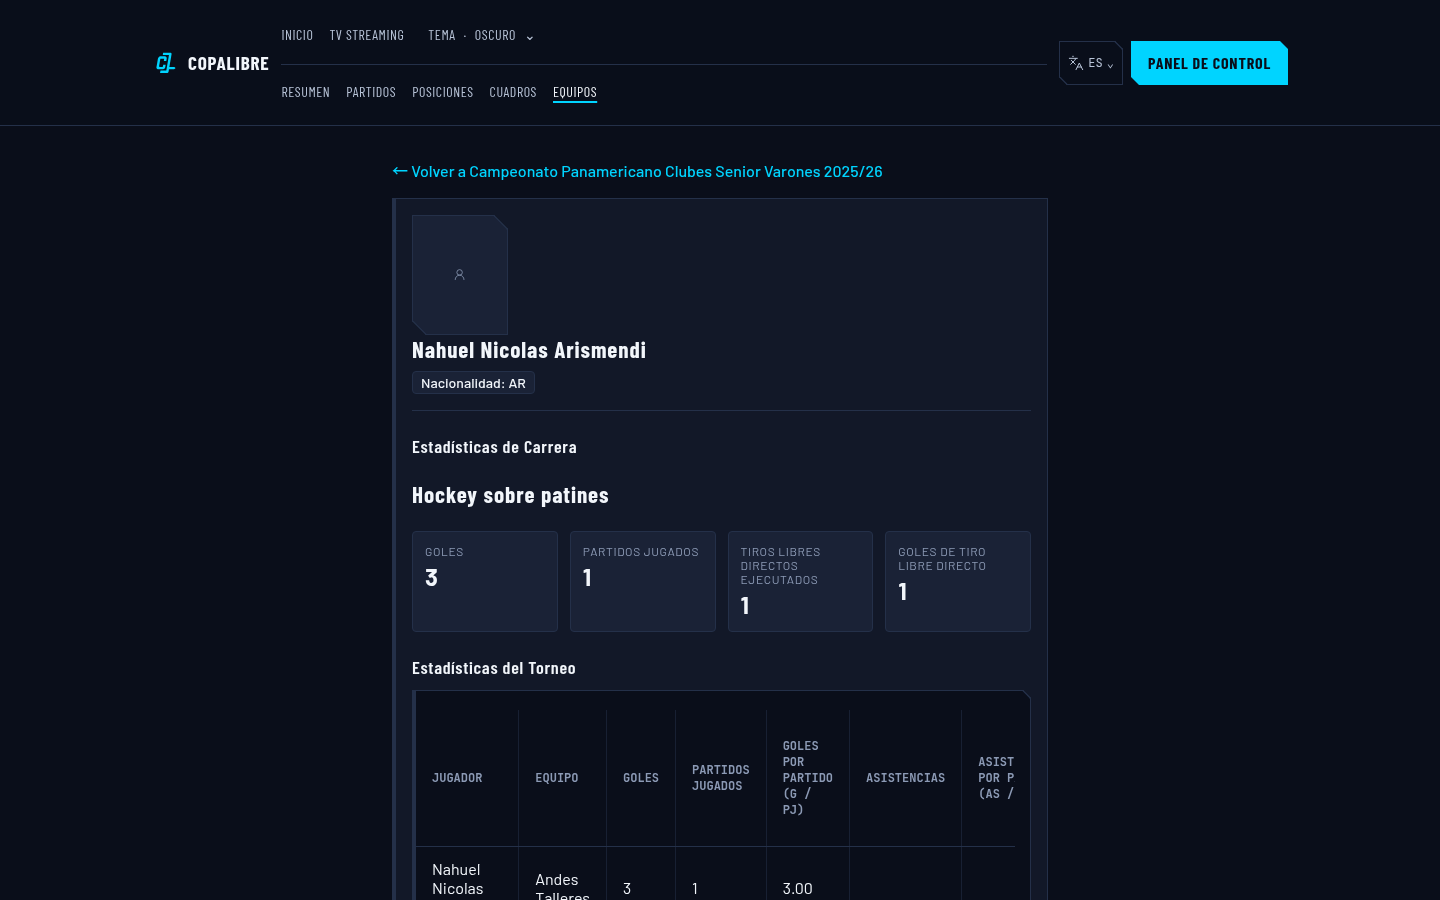
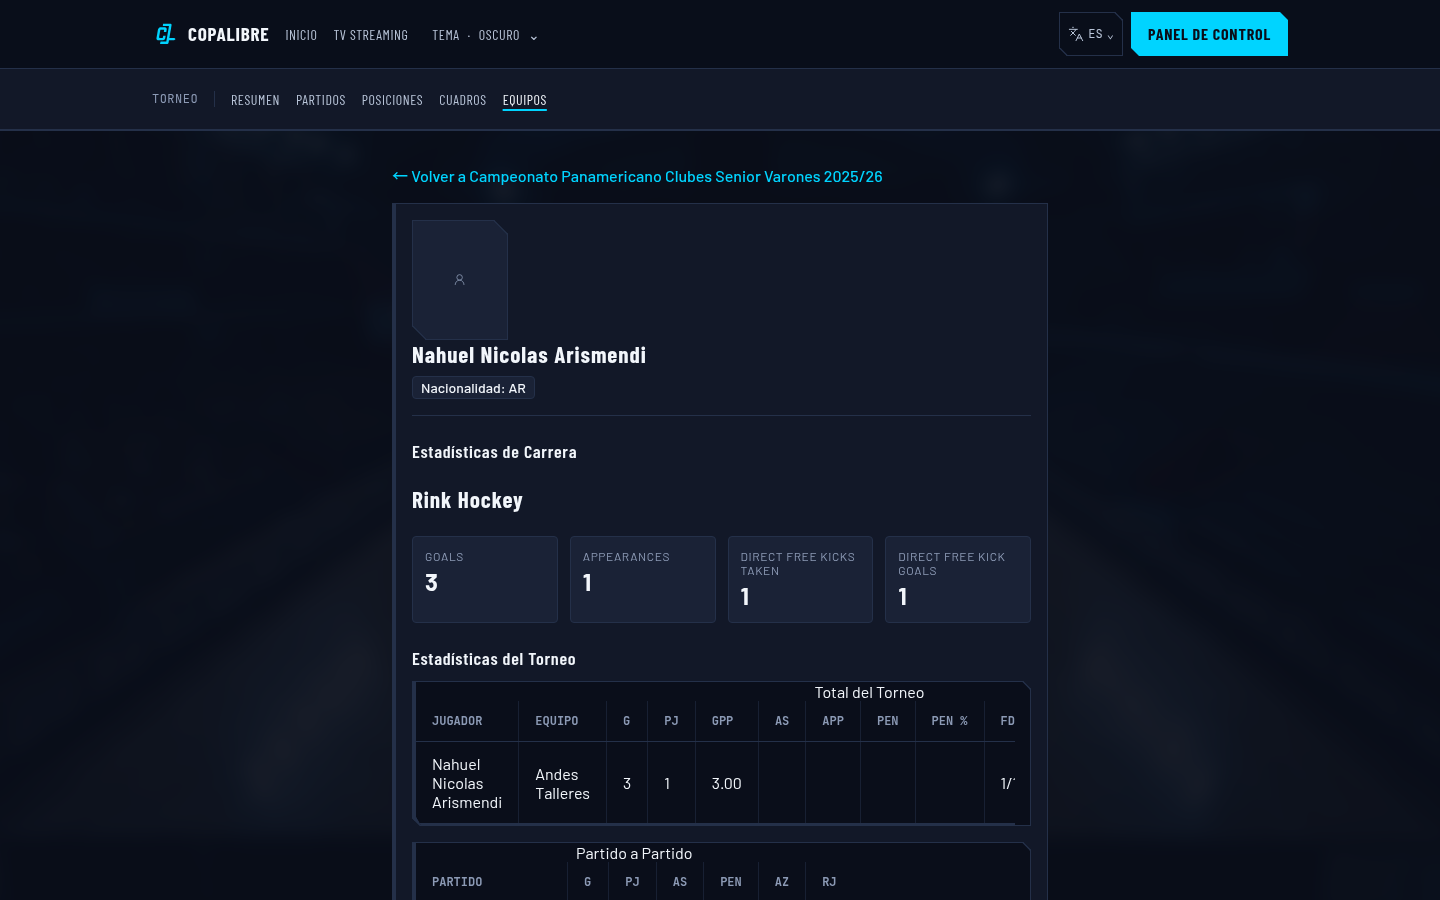
fix(web): separate public navigation hierarchy

diff --git a/packages/design-tokens/src/generate/css.ts b/packages/design-tokens/src/generate/css.ts
@@ -2146,10 +2146,11 @@ function compositions(): string {
     /*
      * The public header.
      *
-     * One navigation landmark, not two. On a wide viewport it fills the row
-     * between the brand and the persistent locale and Control panel actions;
-     * below the medium breakpoint it takes a whole line of
-     * the same wrapping flex row, which makes the menu expand *in page flow*.
+     * A single-height primary row holds the brand, global destinations and
+     * persistent actions. Tournament destinations live in a full-width band
+     * below it, aligned to the same container. At the compact breakpoint both
+     * navigation groups become separate, in-flow disclosures under persistent
+     * actions.
      *
      * That is the deliberate difference from the operator surface's modal
      * drawer, which keeps its overlay, its focus trap and its return-focus
@@ -2158,20 +2159,26 @@ function compositions(): string {
      */
     '.cl-public-header { position: sticky; top: 0; z-index: 30; background: color-mix(in srgb, var(--cl-surface-base) 92%, transparent); border-block-end: 1px solid var(--cl-border-muted); backdrop-filter: blur(6px); }',
     '',
-    '.cl-public-header__row { display: grid; grid-template-columns: auto minmax(0, 1fr) auto; align-items: center; gap: var(--cl-space-3); padding-block: var(--cl-space-3); min-width: 0; }',
+    '.cl-public-header__row { display: grid; grid-template-columns: auto minmax(0, 1fr) auto; align-items: center; gap: var(--cl-space-4); padding-block: var(--cl-space-3); min-width: 0; }',
     '',
-    // Locale and Control panel stay visible in their own mobile row while the
-    // menu toggle opens and closes the spectator links below.
-    '.cl-public-header__actions { display: flex; flex-wrap: wrap; align-items: center; justify-content: flex-end; gap: var(--cl-space-2); min-width: 0; }',
+    '.cl-public-header__brand { display: flex; min-width: 0; }',
     '',
-    '.cl-public-header__nav { display: grid; grid-template-columns: minmax(0, 1fr); align-items: center; justify-self: stretch; gap: var(--cl-space-2); min-width: 0; }',
+    // Locale and Control panel remain visible while the compact menu opens.
+    '.cl-public-header__actions { display: flex; flex-wrap: nowrap; align-items: center; justify-content: flex-end; gap: var(--cl-space-2); min-width: 0; }',
+    '',
+    '.cl-public-header__nav { display: flex; align-items: center; justify-self: stretch; min-width: 0; }',
+    '.cl-public-header__global-label { display: none; }',
     '',
     // The closed menu is closed for everyone: `hidden` takes its links out of
     // the tab order, which a `visibility` or an off-screen trick would not.
     // The reset at the top of `components()` is what makes it stick.
     '.cl-public-header__links { display: flex; flex-wrap: wrap; align-items: center; gap: var(--cl-space-4); width: 100%; min-width: 0; margin: 0; padding: 0; list-style: none; }',
     '',
-    '.cl-public-header__tournament-links { display: flex; flex-wrap: wrap; align-items: center; gap: var(--cl-space-4); width: 100%; min-width: 0; margin: 0; padding: var(--cl-space-1) 0 0; list-style: none; border-block-start: 1px solid var(--cl-border-muted); }',
+    '.cl-public-header__context-band { background: var(--cl-surface-panel); border-block: 1px solid var(--cl-border-muted); }',
+    '.cl-public-header__context-row { padding-block: var(--cl-space-2); }',
+    '.cl-public-header__tournament-nav { display: flex; align-items: center; gap: var(--cl-space-4); min-width: 0; }',
+    '.cl-public-header__context-label { flex: none; margin: 0; padding-inline-end: var(--cl-space-4); border-inline-end: 1px solid var(--cl-border-muted); color: var(--cl-text-muted); font-family: var(--cl-font-mono); font-size: var(--cl-font-size-xs); text-transform: uppercase; letter-spacing: var(--cl-tracking-wide); }',
+    '.cl-public-header__tournament-links { display: flex; flex-wrap: wrap; align-items: center; gap: var(--cl-space-4); min-width: 0; margin: 0; padding: 0; list-style: none; }',
     '',
     '.cl-public-header__theme { position: relative; }',
     '.cl-public-header__theme > details > summary { display: inline-flex; align-items: center; gap: var(--cl-space-2); min-height: var(--cl-touch-target); padding-inline: var(--cl-space-2); color: var(--cl-text-secondary); font-family: var(--cl-font-display); font-size: var(--cl-font-size-sm); text-transform: uppercase; letter-spacing: var(--cl-tracking-wide); cursor: pointer; list-style: none; }',
@@ -2186,7 +2193,7 @@ function compositions(): string {
     '',
     '.cl-public-header__tournament-link[aria-current="page"] { color: var(--cl-text-primary); text-decoration: underline; text-decoration-color: var(--cl-primary); text-decoration-thickness: 2px; text-underline-offset: var(--cl-space-1); }',
     '',
-    '.cl-public-header__toggle { display: inline-grid; place-items: center; min-width: var(--cl-touch-target); min-height: var(--cl-touch-target); background: transparent; border: 1px solid var(--cl-border-muted); color: var(--cl-text-primary); cursor: pointer; }',
+    '.cl-public-header__toggle { display: none; place-items: center; min-width: var(--cl-touch-target); min-height: var(--cl-touch-target); background: transparent; border: 1px solid var(--cl-border-muted); color: var(--cl-text-primary); cursor: pointer; }',
     '',
     // The icon changes with the state, so the control reads as opened or closed
     // without relying on the reader remembering which way it was.
@@ -2200,21 +2207,22 @@ function compositions(): string {
     '.cl-public-header__locale > summary::-webkit-details-marker { display: none; }',
     `.cl-public-header__locale-list { position: absolute; inset-inline-end: 0; z-index: 40; min-width: max-content; width: max-content; white-space: nowrap; display: grid; gap: var(--cl-space-1); margin: var(--cl-space-1) 0 0; padding: var(--cl-space-2); list-style: none; background: var(--cl-surface-chrome); border: 1px solid var(--cl-border-muted); box-shadow: ${DIALOG_TOKENS.elevation}; }`,
     '',
-    /*
-     * At and below the inclusive medium breakpoint the navigation takes its
-     * own line below the persistent actions, which get a full row of their own.
-     */
+    /* Compact menu: persistent brand and actions lead; each navigation layer
+     * then gets its own labelled surface in document flow. */
     `@media (max-width: ${BREAKPOINTS.md}) {`,
-    '  .cl-public-header__row { grid-template-columns: minmax(0, 1fr); }',
-    '  .cl-public-header__nav { grid-column: 1; grid-row: 3; align-items: stretch; gap: var(--cl-space-3); padding-block: var(--cl-space-4); border-block-start: 1px solid var(--cl-border-muted); }',
+    '  .cl-public-header__row { grid-template-columns: minmax(0, 1fr); gap: var(--cl-space-2); padding-block: var(--cl-space-2); }',
+    '  .cl-public-header__brand { grid-column: 1; grid-row: 1; }',
     '  .cl-public-header__actions { grid-column: 1; grid-row: 2; justify-content: space-between; width: 100%; }',
-    '  .cl-public-header__links, .cl-public-header__tournament-links { flex-direction: column; align-items: stretch; gap: var(--cl-space-2); }',
-    '  .cl-public-header__tournament-links { padding-block-start: var(--cl-space-3); }',
+    '  .cl-public-header__nav { display: grid; grid-column: 1; grid-row: 3; align-items: stretch; gap: var(--cl-space-2); padding-block: var(--cl-space-3); border-block-start: 1px solid var(--cl-border-muted); }',
+    '  .cl-public-header__global-label { display: block; margin: 0; color: var(--cl-text-muted); font-family: var(--cl-font-mono); font-size: var(--cl-font-size-xs); text-transform: uppercase; letter-spacing: var(--cl-tracking-wide); }',
+    '  .cl-public-header__links, .cl-public-header__tournament-links { flex-direction: column; align-items: stretch; gap: var(--cl-space-1); }',
+    '  .cl-public-header__link { width: 100%; padding-inline: var(--cl-space-2); }',
+    '  .cl-public-header__context-row { padding-block: var(--cl-space-3); }',
+    '  .cl-public-header__tournament-nav { display: grid; grid-template-columns: minmax(0, 1fr); gap: var(--cl-space-2); }',
+    '  .cl-public-header__context-label { padding: 0 0 var(--cl-space-2); border-inline-end: 0; border-block-end: 1px solid var(--cl-border-muted); }',
+    '  .cl-public-header__tournament-links { display: grid; grid-template-columns: minmax(0, 1fr); }',
+    '  .cl-public-header__tournament-link[aria-current="page"] { border-inline-start: 2px solid var(--cl-primary); }',
     '  .cl-public-header__toggle:not([hidden]) { display: inline-grid; }',
-    '}',
-    `@media (min-width: ${BREAKPOINTS.md}) {`,
-    // Nothing to disclose once every link is already in the row.
-    '  .cl-public-header__toggle { display: none; }',
     '}',
   ].join('\n');
 }

diff --git a/packages/design-tokens/src/tokens.test.ts b/packages/design-tokens/src/tokens.test.ts
@@ -1045,38 +1045,55 @@ describe('public table and pill treatments', () => {
 
   it('keeps public actions visible while mobile navigation expands in page flow', () => {
     expect(css).toContain(
-      '.cl-public-header__row { display: grid; grid-template-columns: auto minmax(0, 1fr) auto;',
+      '.cl-public-header__row { display: grid; grid-template-columns: auto minmax(0, 1fr) auto; align-items: center; gap: var(--cl-space-4);',
     );
+    expect(css).toContain('.cl-public-header__brand { display: flex; min-width: 0; }');
     expect(css).toContain(
-      '.cl-public-header__nav { display: grid; grid-template-columns: minmax(0, 1fr); align-items: center; justify-self: stretch;',
+      '.cl-public-header__nav { display: flex; align-items: center; justify-self: stretch; min-width: 0; }',
     );
+    expect(css).toContain('.cl-public-header__global-label { display: none; }');
     expect(css).toContain(
       '.cl-public-header__links { display: flex; flex-wrap: wrap; align-items: center; gap: var(--cl-space-4); width: 100%;',
     );
     expect(css).toContain(
-      '.cl-public-header__tournament-links { display: flex; flex-wrap: wrap; align-items: center; gap: var(--cl-space-4); width: 100%;',
+      '.cl-public-header__context-band { background: var(--cl-surface-panel); border-block: 1px solid var(--cl-border-muted); }',
+    );
+    expect(css).toContain('.cl-public-header__context-row { padding-block: var(--cl-space-2); }');
+    expect(css).toContain(
+      '.cl-public-header__tournament-nav { display: flex; align-items: center; gap: var(--cl-space-4); min-width: 0; }',
+    );
+    expect(css).toContain(
+      '.cl-public-header__tournament-links { display: flex; flex-wrap: wrap; align-items: center; gap: var(--cl-space-4); min-width: 0;',
     );
     expect(css).toContain(
       '.cl-public-header__tournament-link[aria-current="page"] { color: var(--cl-text-primary); text-decoration: underline;',
     );
     expect(css).toContain(
-      '.cl-public-header__actions { display: flex; flex-wrap: wrap; align-items: center; justify-content: flex-end;',
+      '.cl-public-header__actions { display: flex; flex-wrap: nowrap; align-items: center; justify-content: flex-end;',
     );
     expect(css).toContain(
-      '@media (max-width: 768px) {\n  .cl-public-header__row { grid-template-columns: minmax(0, 1fr); }',
+      '.cl-public-header__toggle { display: none; place-items: center; min-width: var(--cl-touch-target);',
     );
     expect(css).toContain(
-      '  .cl-public-header__nav { grid-column: 1; grid-row: 3; align-items: stretch;',
+      '@media (max-width: 768px) {\n  .cl-public-header__row { grid-template-columns: minmax(0, 1fr); gap: var(--cl-space-2);',
     );
+    expect(css).toContain('  .cl-public-header__brand { grid-column: 1; grid-row: 1; }');
     expect(css).toContain(
       '  .cl-public-header__actions { grid-column: 1; grid-row: 2; justify-content: space-between; width: 100%; }',
     );
+    expect(css).toContain(
+      '  .cl-public-header__nav { display: grid; grid-column: 1; grid-row: 3; align-items: stretch;',
+    );
+    expect(css).toContain('  .cl-public-header__global-label { display: block;');
     expect(css).toContain('  .cl-public-header__toggle:not([hidden]) { display: inline-grid; }');
     expect(css).toContain(
-      '@media (min-width: 768px) {\n  .cl-public-header__toggle { display: none; }',
+      '  .cl-public-header__links, .cl-public-header__tournament-links { flex-direction: column; align-items: stretch;',
     );
     expect(css).toContain(
-      '  .cl-public-header__links, .cl-public-header__tournament-links { flex-direction: column; align-items: stretch;',
+      '  .cl-public-header__tournament-nav { display: grid; grid-template-columns: minmax(0, 1fr);',
+    );
+    expect(css).toContain(
+      '  .cl-public-header__tournament-link[aria-current="page"] { border-inline-start: 2px solid var(--cl-primary); }',
     );
     expect(css).not.toContain('.cl-public-header__cta-item');
   });

diff --git a/e2e/public-navigation-and-accessibility.spec.ts b/e2e/public-navigation-and-accessibility.spec.ts
@@ -169,6 +169,76 @@ test.describe('Public Navigation & Accessibility Hardening', () => {
     await expect(page).toHaveURL(/\/tv\?lang=en/);
   });
 
+  test('mobile public navigation separates global and tournament groups; desktop keeps one primary row', async ({
+    page,
+  }) => {
+    await page.setViewportSize({ width: 390, height: 844 });
+    await page.goto(`/es/${ORGANIZATION}/tournaments/${TOURNAMENT_ALIAS}`);
+
+    const toggle = page.locator('[data-public-nav-toggle]');
+    const globalNav = page.locator('#cl-public-nav');
+    const tournamentNav = page.locator('#cl-public-tournament-nav nav');
+    await expect(globalNav).toHaveAttribute('aria-label', 'Principal');
+    await expect(tournamentNav).toHaveAttribute('aria-label', 'Torneo');
+    await expect(toggle).toBeVisible();
+    await expect(toggle).toHaveAttribute('aria-controls', 'cl-public-nav cl-public-tournament-nav');
+    await expect(toggle).toHaveAttribute('aria-expanded', 'false');
+    await expect(globalNav).toBeHidden();
+    await expect(tournamentNav).toBeHidden();
+
+    await toggle.click();
+    await expect(toggle).toHaveAttribute('aria-expanded', 'true');
+    await expect(globalNav).toBeVisible();
+    await expect(tournamentNav).toBeVisible();
+    await expect(page.locator('.cl-public-header__global-label')).toHaveText('Plataforma');
+    await expect(page.locator('.cl-public-header__context-label')).toHaveText('Torneo');
+    await expect(globalNav.getByRole('link', { name: 'Inicio' })).toBeVisible();
+    await expect(tournamentNav.getByRole('link', { name: 'Resumen' })).toBeVisible();
+    expect(
+      await page.evaluate(() => document.documentElement.scrollWidth === window.innerWidth),
+    ).toBe(true);
+
+    await page.keyboard.press('Escape');
+    await expect(toggle).toHaveAttribute('aria-expanded', 'false');
+    await expect(toggle).toBeFocused();
+    await expect(globalNav).toBeHidden();
+    await expect(tournamentNav).toBeHidden();
+
+    await page.setViewportSize({ width: 1440, height: 900 });
+    const geometry = await page.evaluate(() => {
+      const rect = (selector: string) => {
+        const element = document.querySelector(selector);
+        if (!element) throw new Error(`Missing header element: ${selector}`);
+        return element.getBoundingClientRect();
+      };
+      const row = rect('.cl-public-header__row');
+      const brand = rect('.cl-public-header__brand');
+      const global = rect('.cl-public-header__nav');
+      const actions = rect('.cl-public-header__actions');
+      const context = rect('.cl-public-header__context-band');
+      return {
+        rowHeight: row.height,
+        primaryCenterSpread:
+          Math.max(
+            brand.top + brand.height / 2,
+            global.top + global.height / 2,
+            actions.top + actions.height / 2,
+          ) -
+          Math.min(
+            brand.top + brand.height / 2,
+            global.top + global.height / 2,
+            actions.top + actions.height / 2,
+          ),
+        primaryBottom: row.bottom,
+        contextTop: context.top,
+      };
+    });
+    expect(geometry.rowHeight).toBeLessThan(80);
+    expect(geometry.primaryCenterSpread).toBeLessThan(1);
+    expect(geometry.contextTop).toBeGreaterThanOrEqual(geometry.primaryBottom);
+    await expect(toggle).toBeHidden();
+  });
+
   test('the public light theme follows the device, persists selection, and passes contrast checks', async ({
     page,
   }) => {

diff --git a/apps/web/src/components/public-cta-and-brand.test.ts b/apps/web/src/components/public-cta-and-brand.test.ts
@@ -242,6 +242,18 @@ describe('public layout, header, and home orientation hub', () => {
     expect(header).not.toContain('/help/api-reference/');
   });
 
+  it('separates global navigation from tournament tabs and groups both in the mobile menu', () => {
+    expect(header).toContain('cl-public-header__row');
+    expect(header).toContain('id="cl-public-nav"');
+    expect(header).toContain('cl-public-header__context-band');
+    expect(header).toContain('id="cl-public-tournament-nav"');
+    expect(header).toContain('messages.headerGlobalSection');
+    expect(header).toContain('messages.headerTournamentSection');
+    expect(header).toContain('aria-controls={controlledNavigationIds}');
+    expect(header).toContain('.split(/\\s+/)');
+    expect(header).toContain('for (const panel of panels) panel.hidden = !expanded;');
+  });
+
   it('chamfers the closed language selector with the control treatment', () => {
     expect(header).toMatch(
       /<summary[\s\S]*?class="cl-chamfer cl-chamfer--control cl-focusable"[\s\S]*?<\/summary>/,

diff --git a/apps/web/src/lib/i18n/public-messages.en.ts b/apps/web/src/lib/i18n/public-messages.en.ts
@@ -142,6 +142,11 @@ export const messages = defineMessages({
   headerThemeSystem: { id: 'publicWeb.header.themeSystem', defaultMessage: 'System' },
   headerNavHome: { id: 'publicWeb.header.navHome', defaultMessage: 'Home' },
   headerNavTv: { id: 'publicWeb.header.navTv', defaultMessage: 'TV Streaming' },
+  headerGlobalSection: { id: 'publicWeb.header.globalSection', defaultMessage: 'Platform' },
+  headerTournamentSection: {
+    id: 'publicWeb.header.tournamentSection',
+    defaultMessage: 'Tournament',
+  },
   headerTournamentOverview: {
     id: 'publicWeb.header.tournamentOverview',
     defaultMessage: 'Overview',

diff --git a/apps/web/src/lib/i18n/public-messages.ru.ts b/apps/web/src/lib/i18n/public-messages.ru.ts
@@ -338,6 +338,8 @@ export const messages: Record<string, string> = {
   'publicWeb.header.themeSystem': 'Системная',
   'publicWeb.header.navHome': 'Главная',
   'publicWeb.header.navTv': 'ТВ-трансляция',
+  'publicWeb.header.globalSection': 'Платформа',
+  'publicWeb.header.tournamentSection': 'Турнир',
   'publicWeb.header.tournamentOverview': 'Обзор',
   'publicWeb.header.tournamentMatches': 'Матчи',
   'publicWeb.header.tournamentStandings': 'Турнирная таблица',

diff --git a/apps/web/src/lib/i18n/public-messages.pt.ts b/apps/web/src/lib/i18n/public-messages.pt.ts
@@ -339,6 +339,8 @@ export const messages: Record<string, string> = {
   'publicWeb.header.themeSystem': 'Sistema',
   'publicWeb.header.navHome': 'Início',
   'publicWeb.header.navTv': 'TV Streaming',
+  'publicWeb.header.globalSection': 'Plataforma',
+  'publicWeb.header.tournamentSection': 'Torneio',
   'publicWeb.header.tournamentOverview': 'Visão geral',
   'publicWeb.header.tournamentMatches': 'Partidas',
   'publicWeb.header.tournamentStandings': 'Classificação',

diff --git a/e2e/public-tournament-overview.spec.ts b/e2e/public-tournament-overview.spec.ts
@@ -524,7 +524,7 @@ test.describe('public empty states without JavaScript', () => {
   test('the tournament header links its sections in server-rendered markup', async ({ page }) => {
     await page.goto(PAGE);
 
-    const navigation = page.locator('#cl-public-nav');
+    const navigation = page.locator('#cl-public-tournament-nav nav');
     await expect(navigation.getByRole('link', { name: 'Resumen', exact: true })).toHaveAttribute(
       'aria-current',
       'page',

diff --git a/apps/web/src/lib/i18n/public-messages.fr.ts b/apps/web/src/lib/i18n/public-messages.fr.ts
@@ -338,6 +338,8 @@ export const messages: Record<string, string> = {
   'publicWeb.header.themeSystem': 'Système',
   'publicWeb.header.navHome': 'Accueil',
   'publicWeb.header.navTv': 'TV Streaming',
+  'publicWeb.header.globalSection': 'Plateforme',
+  'publicWeb.header.tournamentSection': 'Tournoi',
   'publicWeb.header.tournamentOverview': 'Vue d’ensemble',
   'publicWeb.header.tournamentMatches': 'Matchs',
   'publicWeb.header.tournamentStandings': 'Classement',

diff --git a/apps/web/src/lib/i18n/public-messages.de.ts b/apps/web/src/lib/i18n/public-messages.de.ts
@@ -339,6 +339,8 @@ export const messages: Record<string, string> = {
   'publicWeb.header.themeSystem': 'System',
   'publicWeb.header.navHome': 'Startseite',
   'publicWeb.header.navTv': 'TV-Streaming',
+  'publicWeb.header.globalSection': 'Plattform',
+  'publicWeb.header.tournamentSection': 'Turnier',
   'publicWeb.header.tournamentOverview': 'Übersicht',
   'publicWeb.header.tournamentMatches': 'Spiele',
   'publicWeb.header.tournamentStandings': 'Tabelle',

diff --git a/apps/web/src/lib/i18n/public-messages.it.ts b/apps/web/src/lib/i18n/public-messages.it.ts
@@ -339,6 +339,8 @@ export const messages: Record<string, string> = {
   'publicWeb.header.themeSystem': 'Sistema',
   'publicWeb.header.navHome': 'Home',
   'publicWeb.header.navTv': 'TV Streaming',
+  'publicWeb.header.globalSection': 'Piattaforma',
+  'publicWeb.header.tournamentSection': 'Torneo',
   'publicWeb.header.tournamentOverview': 'Panoramica',
   'publicWeb.header.tournamentMatches': 'Partite',
   'publicWeb.header.tournamentStandings': 'Classifica',

diff --git a/apps/web/src/lib/i18n/public-messages.es.ts b/apps/web/src/lib/i18n/public-messages.es.ts
@@ -338,6 +338,8 @@ export const messages: Record<string, string> = {
   'publicWeb.header.themeSystem': 'Sistema',
   'publicWeb.header.navHome': 'Inicio',
   'publicWeb.header.navTv': 'TV Streaming',
+  'publicWeb.header.globalSection': 'Plataforma',
+  'publicWeb.header.tournamentSection': 'Torneo',
   'publicWeb.header.tournamentOverview': 'Resumen',
   'publicWeb.header.tournamentMatches': 'Partidos',
   'publicWeb.header.tournamentStandings': 'Posiciones',
